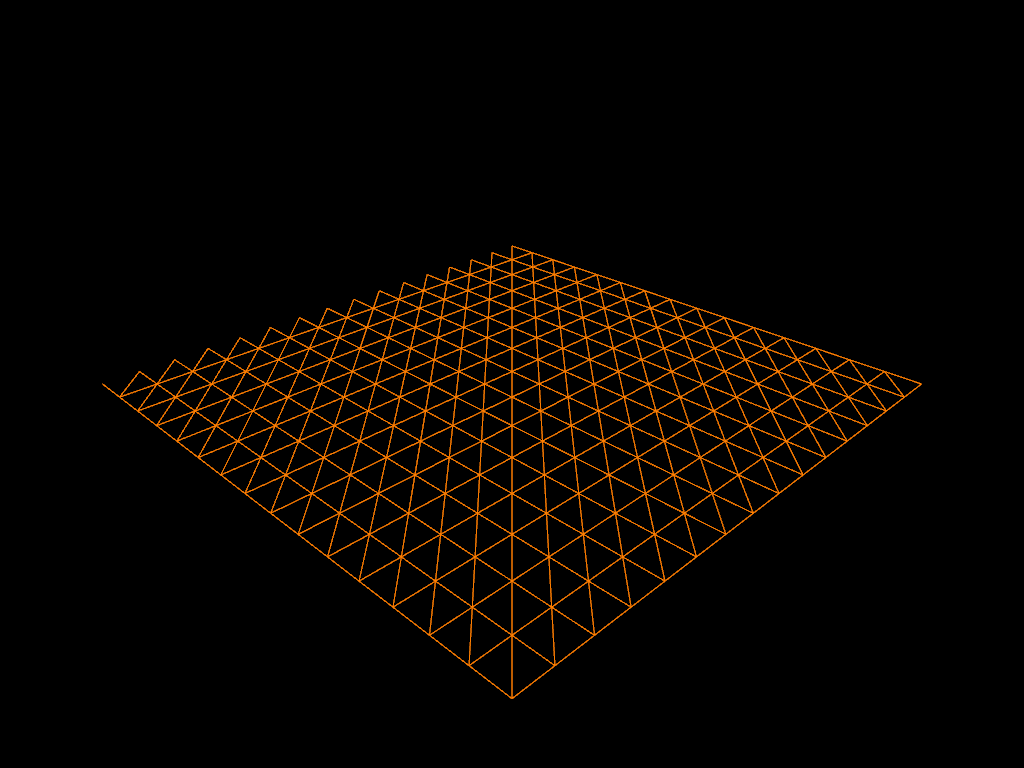
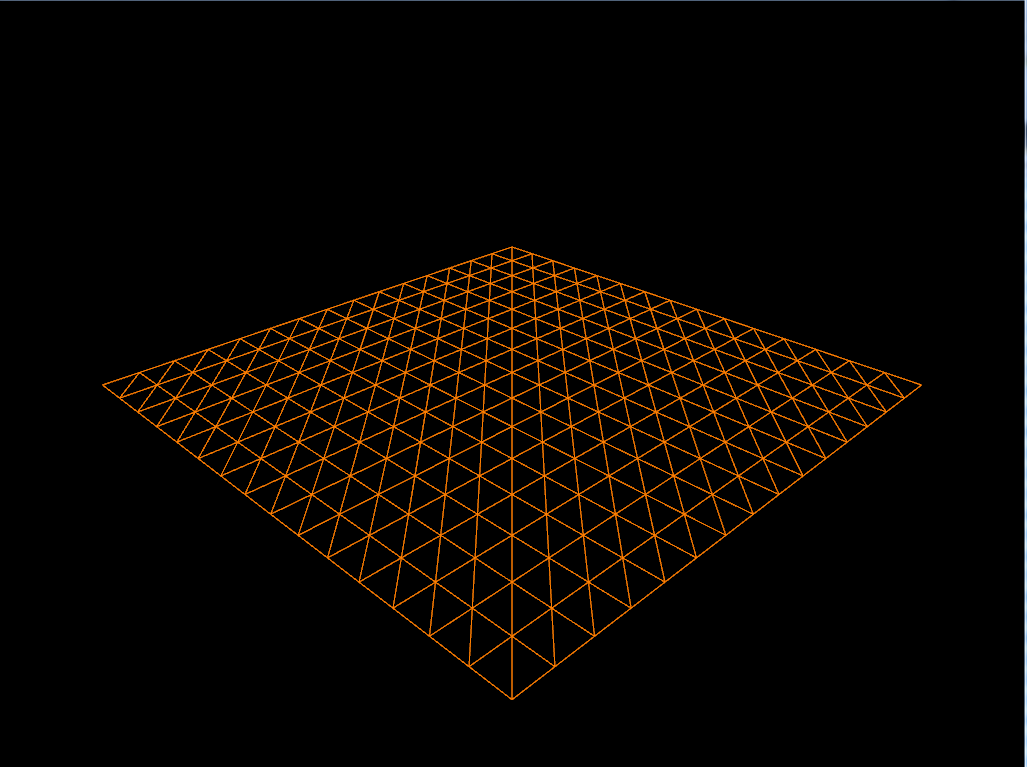
Update triangle grid and report file

Changed region(s): [[0.0938, 0.2999, 0.9062, 0.9296], [0.9688, 0.0, 1.0, 0.03]]

diff --git a/docs/reports/Stage-1-Defferrard-Fechting-Doan.tex b/docs/reports/Stage-1-Defferrard-Fechting-Doan.tex
@@ -27,7 +27,9 @@
 
 \subsection{Triangle grid}
 
-The vertices and indices arrays are computed by the \texttt{triangle\_grid} function. The sole parameter is the number $N$ of points on the grid. Figures~\ref{triangle_grid_8}, \ref{triangle_grid_16} and~\ref{triangle_grid_64} show the result for different values of $N$. These results were generated by code state at commit \texttt{e63a2600093a1639b25c93ad43a221634e10d892}.
+We first generate the flat triangle mesh as a base for our terrain. The implementation is quite straightforward for a grid of size $N \times N$ as first, two VBOs storing the positions of each vertex and the corresponding faces' indices also are calculated.
+
+We then render it as a triangle mesh by function \texttt{glDrawElements} to get a smooth triangle mesh (see 		~\ref{triangle_grid_full}). It is also worth noticing the use of \texttt{glPolygonMode}, which allows us to render only the triangles' boundaries as shown in figures~\ref{triangle_grid_8}, \ref{triangle_grid_16} and~\ref{triangle_grid_64} for $N=8$, $N=16$ and $N=64$, respectively.
 
 \begin{figure}[ht]
 	\centering
@@ -51,19 +53,6 @@ The vertices and indices arrays are computed by the \texttt{triangle\_grid} func
 	\label{triangle_grid}
 \end{figure}
 
-When looking at these figures, it seems that a row of triangles is missing, as the outer-line is missing (fig.~\ref{triangle_grid_8}, \ref{triangle_grid_16} and~\ref{triangle_grid_64}). By looking at the generated triangles (fig.~\ref{triangle_grid_full}), it is however clear that this is not the case (all the triangles are drawn). The generation of the first triangle (fig.~\ref{triangle_artifact}) shows it even more clearly.
-
-\begin{figure}[ht]
-	\centering
-	\subfloat[\textsf{GL\_LINE\_STRIP}]{
-		\includegraphics[height=4cm]{{{img_stage1/triangle_artifact}}}
-	} \quad
-	\subfloat[\textsf{GL\_TRIANGLES}]{
-		\includegraphics[height=4cm]{{{img_stage1/triangle_artifact_full}}}
-	} 
-	\caption{First triangle only}
-	\label{triangle_artifact}
-\end{figure}
 
 
 
